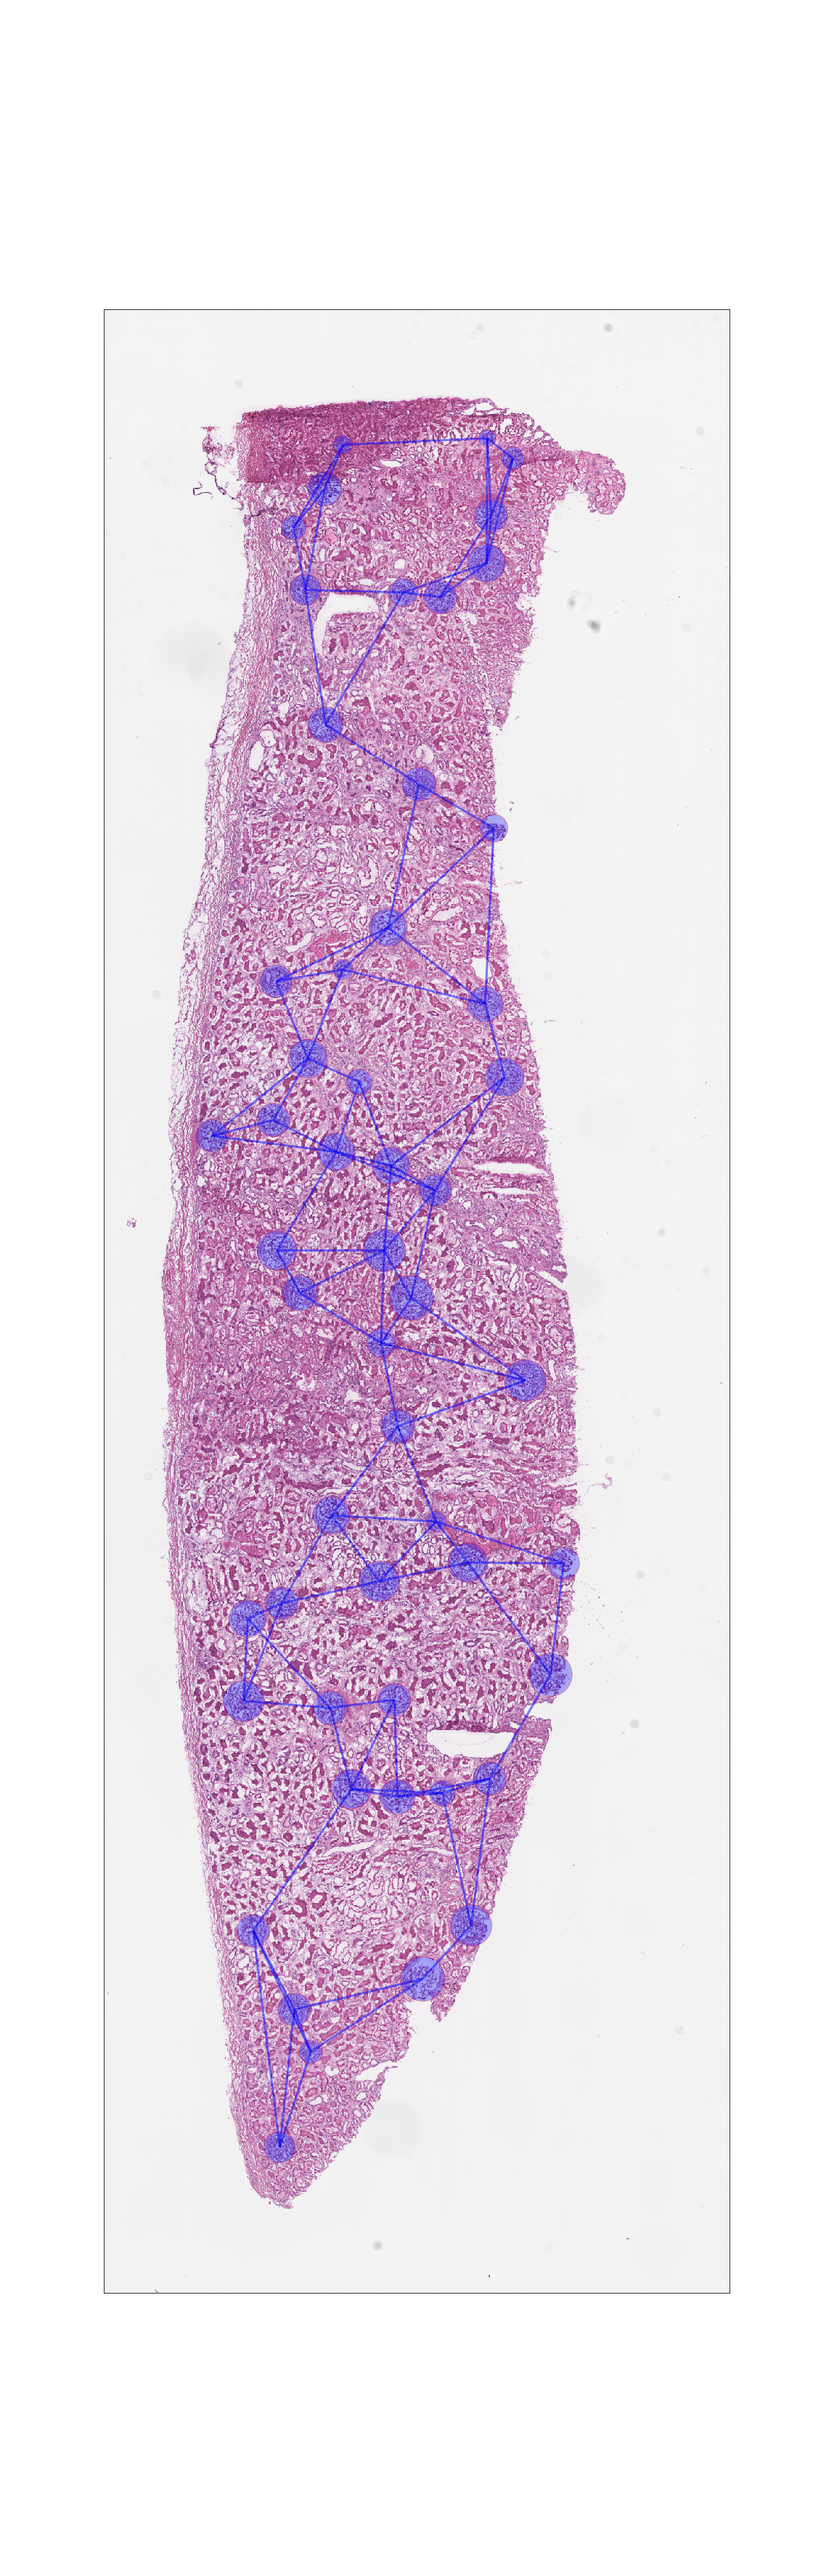
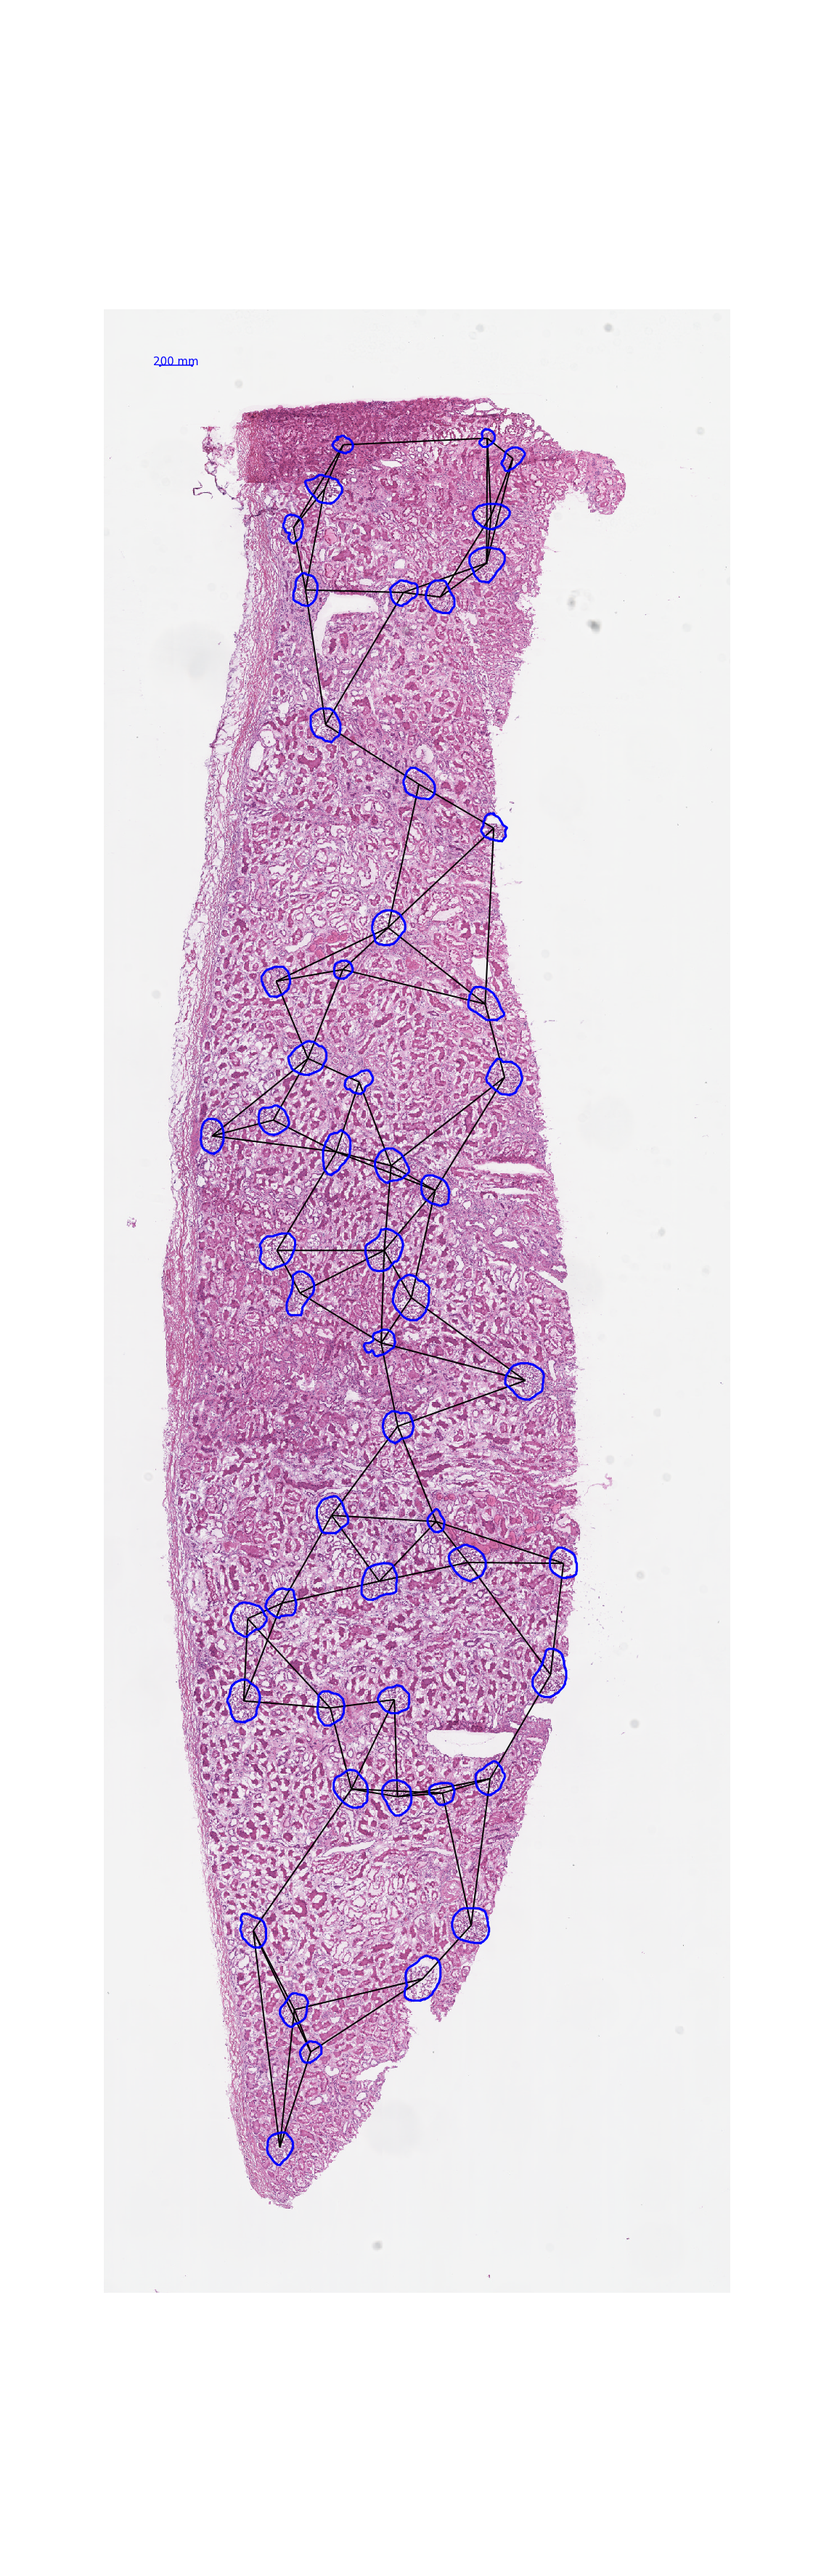
add scale

diff --git a/code/drawGraph/DrawGraph.py b/code/drawGraph/DrawGraph.py
@@ -1,10 +1,9 @@
 import os
 import numpy as np
-from skimage.measure import regionprops, label
+from skimage.measure import regionprops, label, find_contours
 from sklearn.neighbors import NearestNeighbors
 import matplotlib.pyplot as plt
 import networkx as nx
-import sys
 
 from drawGraph.DrawGraphSettings import DrawGraphSetting
 
@@ -12,29 +11,43 @@ from drawGraph.DrawGraphSettings import DrawGraphSetting
 class DrawGraph:
     def __init__(self):
         self.settings = DrawGraphSetting()
-        self.rawPath = os.path.join(sys.path[0], self.settings.rawPath)
-        self.maskPath = os.path.join(sys.path[0], self.settings.maskPath)
-        self.rawGraphPath = os.path.join(sys.path[0], self.settings.rawGraphPath)
-        self.maskGraphPath = os.path.join(sys.path[0], self.settings.maskGraphPath)
-        self.rawImgs = os.listdir(self.rawPath)
-        self.maskImgs = os.listdir(self.maskPath)
+        self.rawImgs = os.listdir(self.settings.rawPath)
+        self.maskImgs = os.listdir(self.settings.maskPath)
 
     def draw_graph(self):
+        def calculate_scale():
+            # 1 inch = 0.0254 meter
+            scale_target = self.settings.scaleTarget / 0.0254  # inch
+            dots_in_scale = scale_target * self.settings.dpi / self.settings.scanMag
+            return dots_in_scale
 
         def draw_graph_on_mask():
-            plt.figure(figsize=(img_width / self.settings.dpi, img_len / self.settings.dpi), dpi=self.settings.dpi)
+            plt.figure(figsize=(img_width / self.settings.dpi, img_len / self.settings.dpi),
+                       dpi=self.settings.dpi)
             plt.imshow(mask_img, plt.cm.gray)
-            nx.draw_networkx_nodes(graph, pos, node_size=node_size, node_color='b', alpha=0.5, edgecolors='r')
+            nx.draw_networkx_nodes(graph, pos, node_size=node_size,
+                                   node_color='b', alpha=0.5, edgecolors='r')
             nx.draw_networkx_edges(graph, pos, width=6, alpha=1, edge_color='white')
             nx.draw_networkx_labels(graph, pos)
-            plt.savefig(self.maskGraphPath + imgName.split(".")[0] + "GraphOnMask.png")
+            plt.scatter(px, py, color='white', s=5)
+            plt.text((px[0] + px[1]) / 2, (py[0] + py[1]) / 2, self.settings.scaleStr,
+                     ha='center', color='white', fontsize=15)
+            plt.plot(px, py, color='white')
+            plt.savefig(self.settings.maskGraphPath + imgName.split(".")[0] + "GraphOnMask.png")
 
         def draw_graph_on_raw():
-            plt.figure(figsize=(img_width / self.settings.dpi, img_len / self.settings.dpi), dpi=self.settings.dpi)
+            plt.figure(figsize=(img_width / self.settings.dpi, img_len / self.settings.dpi),
+                       dpi=self.settings.dpi)
+            plt.axis('off')
             plt.imshow(raw_img)
-            nx.draw_networkx_nodes(graph, pos, node_size=node_size, node_color='b', alpha=0.3, edgecolors='r')
-            nx.draw_networkx_edges(graph, pos, width=3, alpha=0.5, edge_color='b')
-            plt.savefig(self.rawGraphPath + imgName.split(".")[0] + "GraphOnRaw.png")
+            for n, contour in enumerate(contours):
+                plt.plot(contour[:, 1], contour[:, 0], linewidth=3, color='b')
+            nx.draw_networkx_edges(graph, pos, width=2, edge_color='k')
+            plt.scatter(px, py, color='b', s=5)
+            plt.text((px[0]+px[1])/2, (py[0]+py[1])/2, self.settings.scaleStr,
+                     ha='center', color='b', fontsize=15)
+            plt.plot(px, py, color='b')
+            plt.savefig(self.settings.rawGraphPath + imgName.split(".")[0] + "GraphOnRaw.png")
 
         def generate_graph():
             def generate_nodes():
@@ -42,7 +55,8 @@ class DrawGraph:
                     temp = props[i]
                     pos[i] = (temp.centroid[1], temp.centroid[0])
                     node_size.append(temp.area)
-                    graph.add_node(i, area=temp.area, pos=(temp.centroid[1], temp.centroid[0]), rad=temp.equivalent_diameter / 2)
+                    graph.add_node(i, area=temp.area, pos=(temp.centroid[1], temp.centroid[0]),
+                                   rad=temp.equivalent_diameter / 2)
 
             def generate_edges():
                 x = np.array(list(pos.values()))
@@ -58,8 +72,8 @@ class DrawGraph:
 
         for imgName in self.rawImgs:
             try:
-                raw_img = plt.imread(os.path.join(self.rawPath, imgName))
-                mask_img = plt.imread(os.path.join(self.maskPath, imgName), plt.cm.gray)
+                raw_img = plt.imread(os.path.join(self.settings.rawPath, imgName))
+                mask_img = plt.imread(os.path.join(self.settings.maskPath, imgName), plt.cm.gray)
             except IOError:
                 print(imgName + " cannot be processed! Please check if it is a valid image"
                                 "and exists in both raw and mask folders!")
@@ -72,5 +86,23 @@ class DrawGraph:
                 # draw graph
                 img_len = mask_img.shape[0]
                 img_width = mask_img.shape[1]
+                scale_dots = calculate_scale()
+                py = [100, 100]
+                px = [100, 100 + scale_dots]
+                contours = find_contours(mask_img, 0.5)
                 draw_graph_on_mask()
                 draw_graph_on_raw()
+
+#     # 检测所有图形的轮廓
+#     #
+#
+#     # # 绘制轮廓
+#     # fig, (ax0, ax1) = plt.subplots(1, 2, figsize=(8, 8))
+#     # ax0.imshow(img, plt.cm.gray)
+#     # ax1.imshow(img, plt.cm.gray)
+#     # for n, contour in enumerate(contours):
+#     #     ax1.plot(contour[:, 1], contour[:, 0], linewidth=2)
+#     # ax1.axis('image')
+#     # ax1.set_xticks([])
+#     # ax1.set_yticks([])
+#     # plt.show()

diff --git a/code/drawGraph/DrawGraphSettings.py b/code/drawGraph/DrawGraphSettings.py
@@ -1,11 +1,23 @@
+import sys
+import os
+
+from numpy.ma import sqrt
+
+
 class DrawGraphSetting:
     def __init__(self):
         self.dpi = 72
-        self.K = 3
-        # Put the images you want to process in the following folders
-        self.maskPath = '../image/mask/'
-        self.rawPath = '../image/raw/'
-        # The graphs will be put into the following folders
-        self.maskGraphPath = '../image/graph/mask/'
-        self.rawGraphPath = '../image/graph/raw/'
+        self.scaleTarget = 0.2  # m
+        self.scaleStr = '200 mm'
+        self.scanMag = 40/sqrt(16)
 
+        # K is the maximum degree of each node
+        # K corresponding to its K-nearest neighbors
+        self.K = 3
+
+        # Put the images you want to process in the following folders
+        self.maskPath = os.path.join(sys.path[0], '../image/mask/')
+        self.rawPath = os.path.join(sys.path[0], '../image/raw/')
+        # The graphs will be put into the following folders
+        self.maskGraphPath = os.path.join(sys.path[0], '../image/graph/mask/')
+        self.rawGraphPath = os.path.join(sys.path[0], '../image/graph/raw/')
